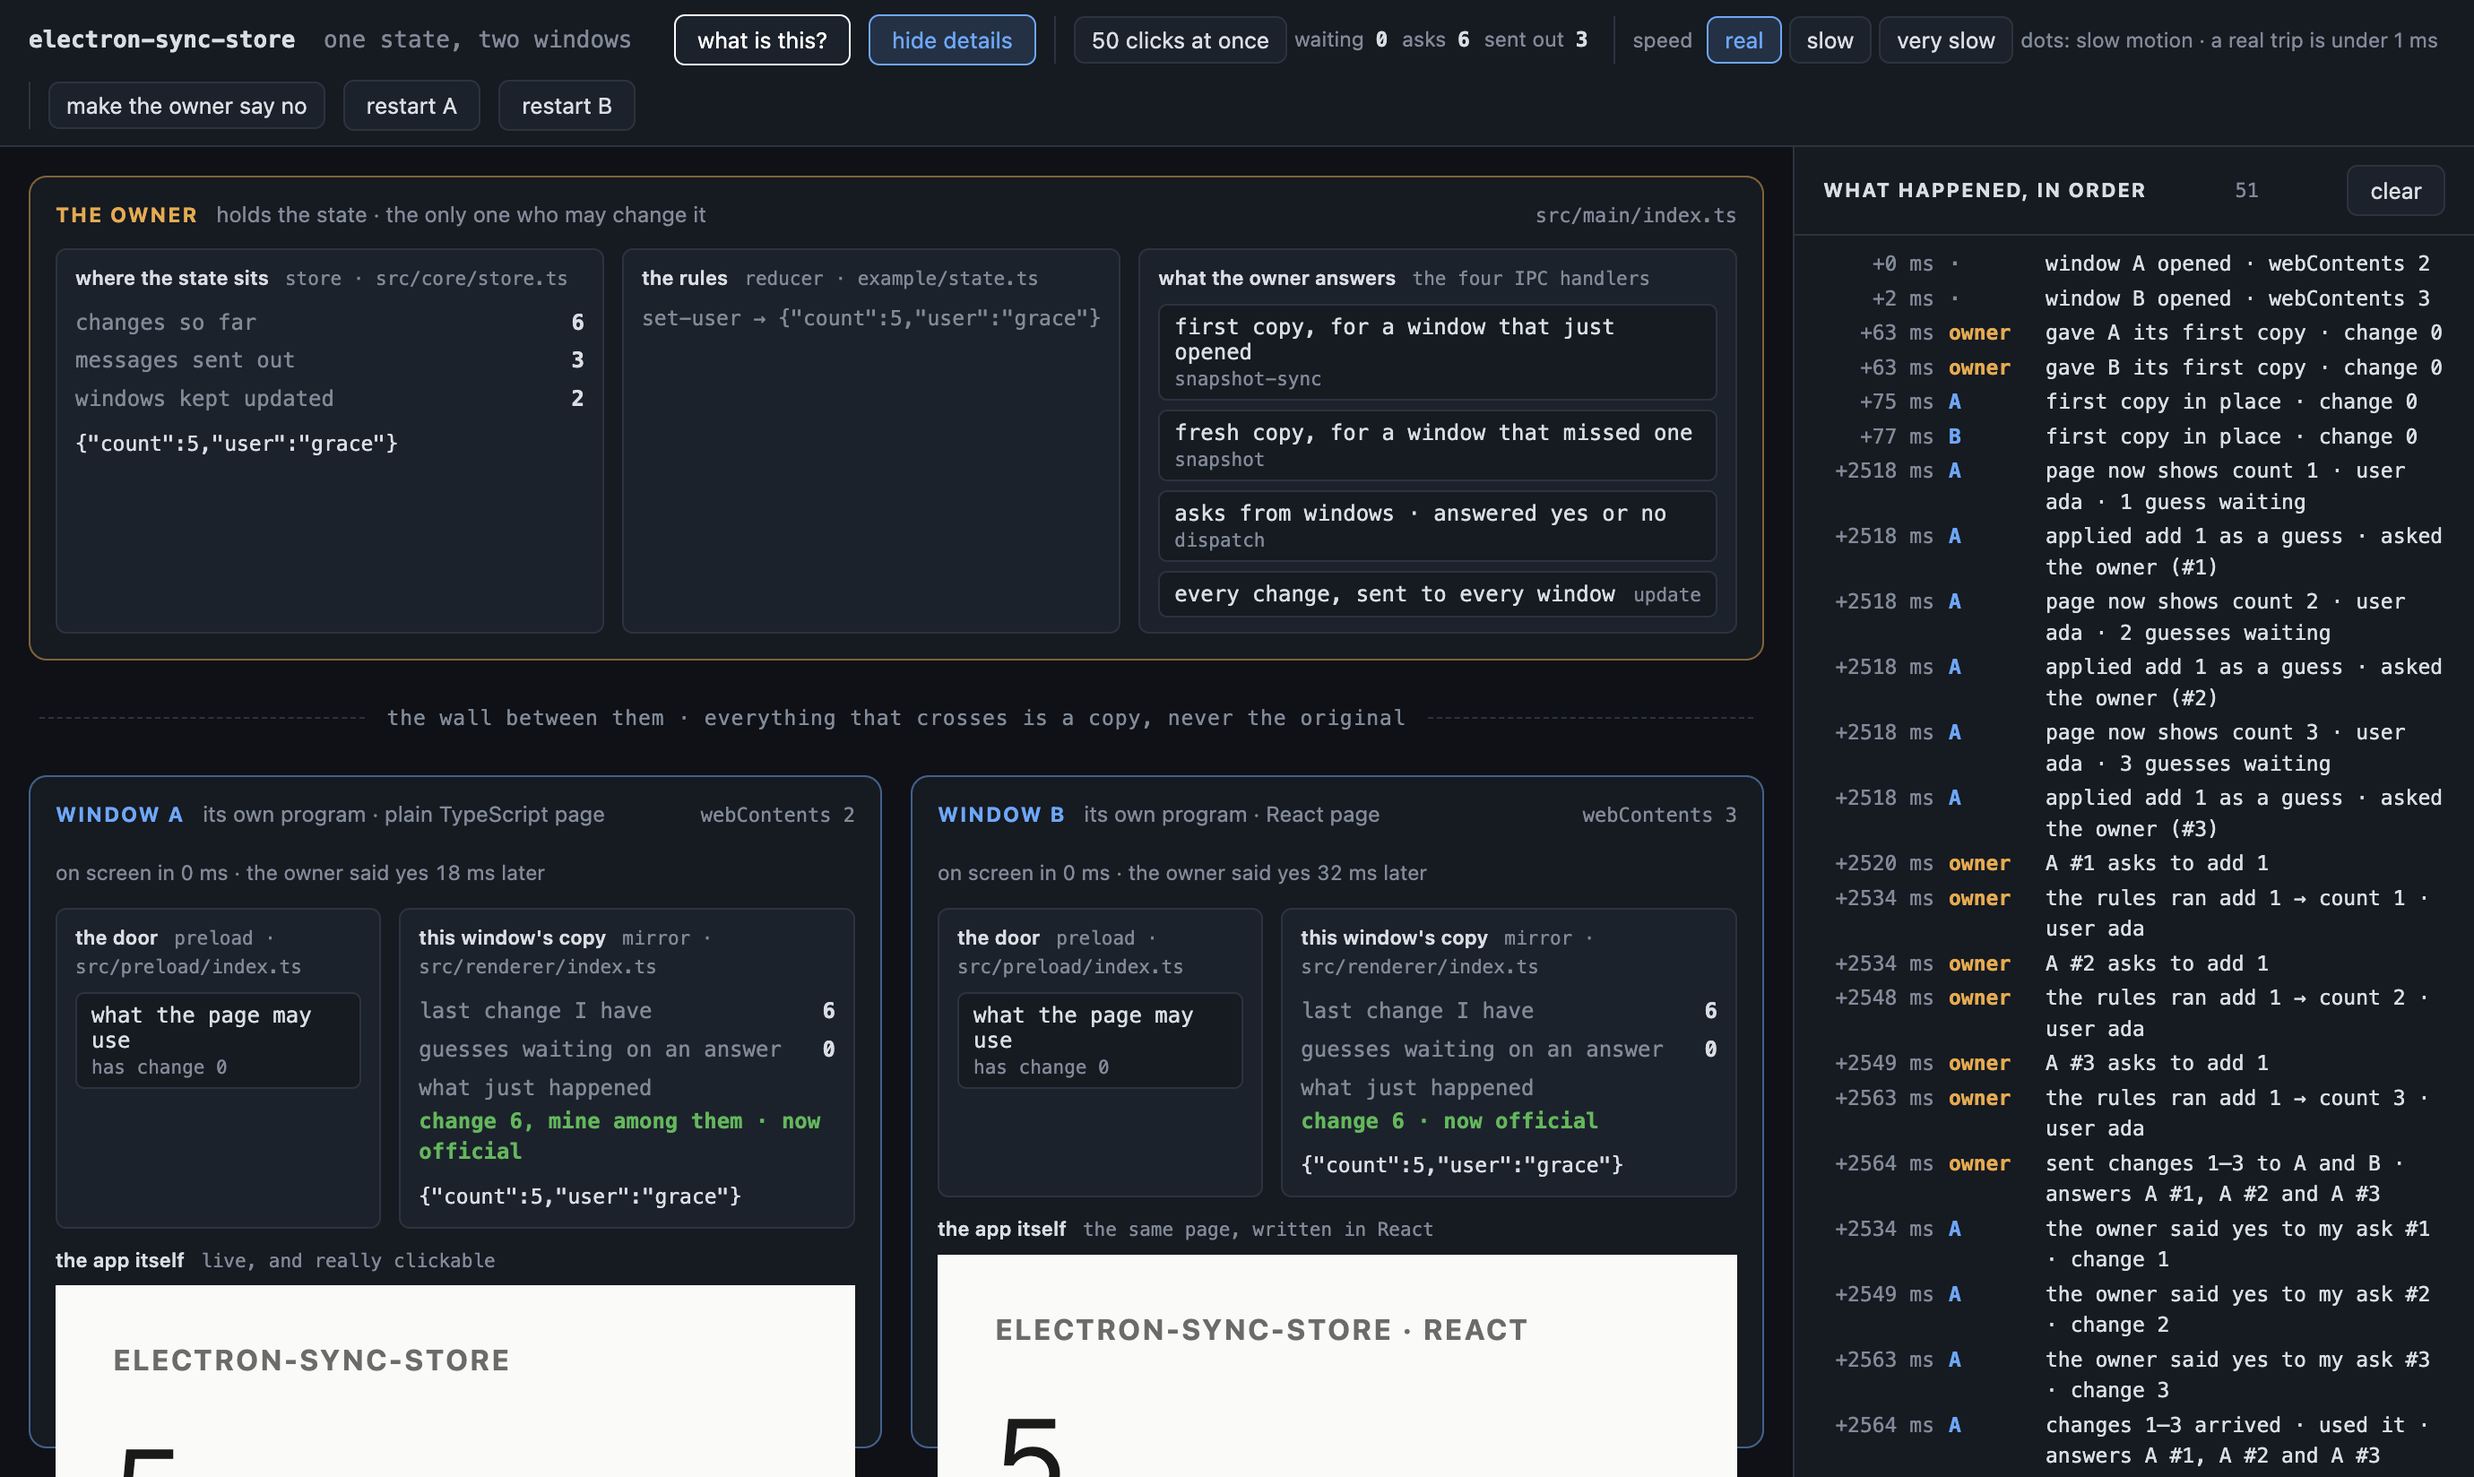
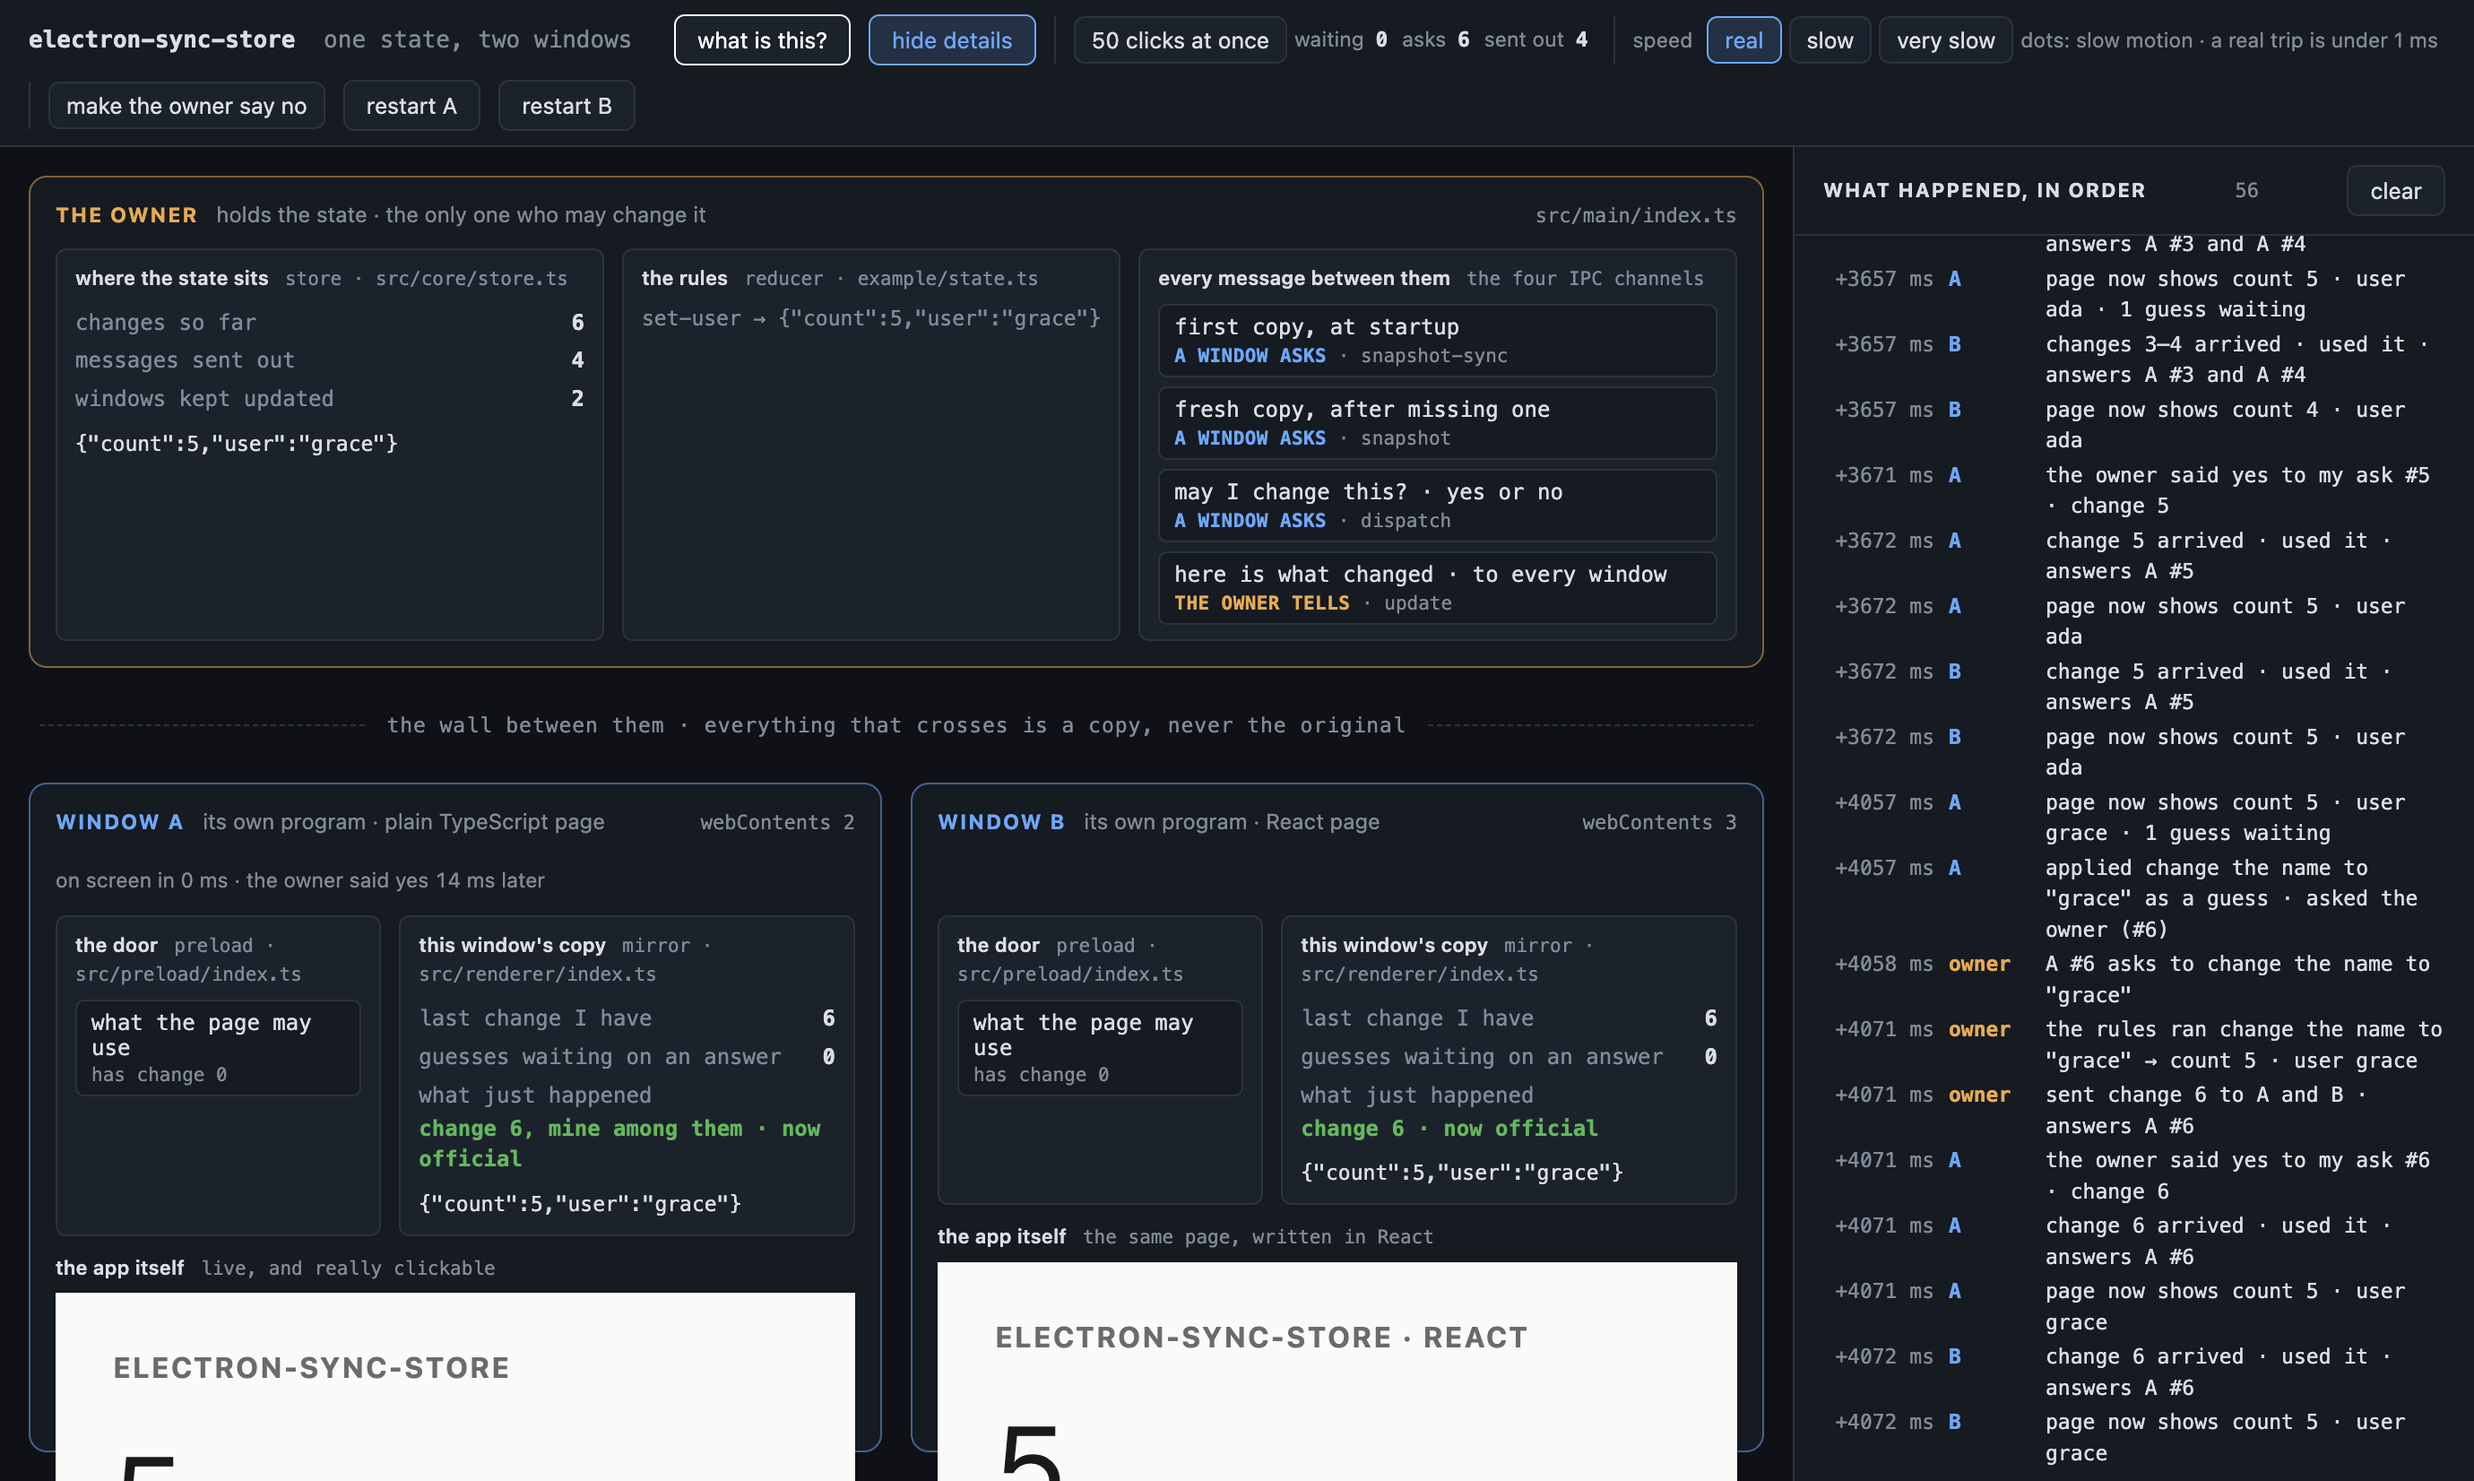
docs(example): say who starts each of the four IPC messages
The box grouped all four channels under "what the owner answers", but the
update is not an answer to anything — the owner sends it because the state
moved, and every window gets the same one. Reading the box top to bottom
made the broadcast look like a reply.

Each channel now says who starts it, on its own line under the
description: three are a window knocking, one is the owner speaking
first, and the colours match the two sides of the diagram.

Screenshots regenerated, since both showed the old label. A
WebContentsView has no display surface of its own and cannot be captured,
so the two panes are ordinary windows on the same preload and the same
store, pasted into the slots. The calm shot keeps them open through the
whole story so the redraw counters on screen are the ones the panes
really show; the details shot opens them only after the log has been
captured, so no extra window appears in it.

diff --git a/example/inspector.html b/example/inspector.html
@@ -304,6 +304,26 @@
         font-size: 10.5px;
         white-space: nowrap;
       }
+      /* Three of the four channels are a window knocking; the fourth is the
+         owner speaking first. The box used to call all four "answers", which
+         made the update look like a reply to something. Each one now says who
+         starts it, on its own line under the description. */
+      .chip.channel {
+        flex-direction: column;
+        align-items: flex-start;
+        gap: 3px;
+      }
+      .chip.channel b {
+        font-weight: 600;
+        letter-spacing: 0.02em;
+        text-transform: uppercase;
+      }
+      .chip.channel b.asks {
+        color: var(--rend);
+      }
+      .chip.channel b.tells {
+        color: var(--main);
+      }
 
       [data-explain] {
         cursor: pointer;
@@ -644,19 +664,23 @@
             </div>
             <div class="box">
               <div class="box-title">
-                what the owner answers <span>the four IPC handlers</span>
+                every message between them <span>the four IPC channels</span>
               </div>
-              <div class="chip" id="h-snapshot-sync" data-explain="h-snapshot-sync">
-                first copy, for a window that just opened <em>snapshot-sync</em>
+              <div class="chip channel" id="h-snapshot-sync" data-explain="h-snapshot-sync">
+                first copy, at startup
+                <em><b class="asks">a window asks</b> · snapshot-sync</em>
               </div>
-              <div class="chip" id="h-snapshot" data-explain="h-snapshot">
-                fresh copy, for a window that missed one <em>snapshot</em>
+              <div class="chip channel" id="h-snapshot" data-explain="h-snapshot">
+                fresh copy, after missing one
+                <em><b class="asks">a window asks</b> · snapshot</em>
               </div>
-              <div class="chip" id="h-dispatch" data-explain="h-dispatch">
-                asks from windows · answered yes or no <em>dispatch</em>
+              <div class="chip channel" id="h-dispatch" data-explain="h-dispatch">
+                may I change this? · yes or no
+                <em><b class="asks">a window asks</b> · dispatch</em>
               </div>
-              <div class="chip" id="h-broadcast" data-explain="h-broadcast">
-                every change, sent to every window <em>update</em>
+              <div class="chip channel" id="h-broadcast" data-explain="h-broadcast">
+                here is what changed · to every window
+                <em><b class="tells">the owner tells</b> · update</em>
               </div>
             </div>
           </div>
